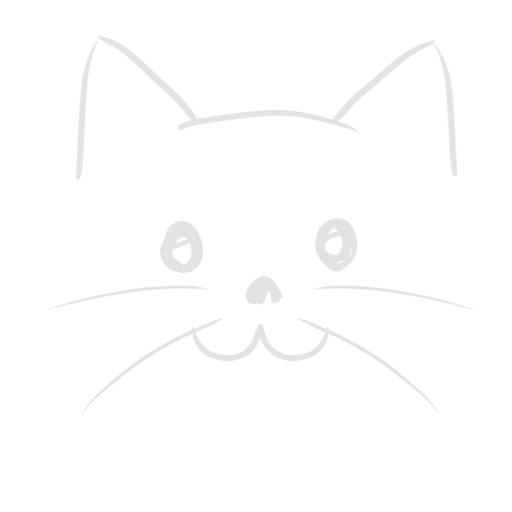
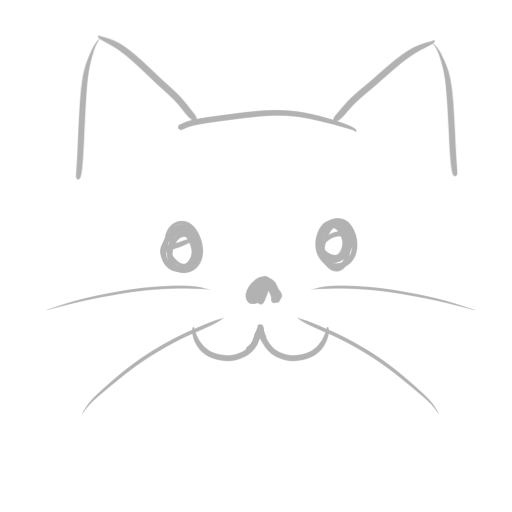
add dark-light theme switch

diff --git a/layouts/partials/custom-style.html b/layouts/partials/custom-style.html
@@ -1,4 +1,96 @@
 <style>
+{{/* Get theme names from config */}}
+{{ $lightThemeName := .Site.Params.lightThemeName | default "light-purple" }}
+{{ $darkThemeName := .Site.Params.darkThemeName | default "dark-purple" }}
+
+{{/* Find theme data */}}
+{{ $lightTheme := index (where .Site.Data.themes "name" $lightThemeName) 0 }}
+{{ $darkTheme := index (where .Site.Data.themes "name" $darkThemeName) 0 }}
+
+/* Theme Variables - Dynamically generated */
+html[class="light-theme"] {
+    --site-bg: url("{{ index $lightTheme "site-bg" }}");
+    --accent-color: {{ index $lightTheme "accent-color" }};
+    --select-color: {{ index $lightTheme "select-color" }};
+    --link-color: {{ index $lightTheme "link-color" }};
+    --bg-color: {{ index $lightTheme "bg-color" }};
+    --text-color: {{ index $lightTheme "text-color" }};
+    --bg-color2: {{ index $lightTheme "bg2-color" }};
+    --border-color: {{ index $lightTheme "border-color" }};
+    --special-text-color: {{ index $lightTheme "special-text-color" }};
+    --post-header-color: {{ index $lightTheme "post-header-color" }};
+    --post-shadow-color: {{ index $lightTheme "post-shadow-color" }};
+    --outline-color: {{ index $lightTheme "post-outline-color" }};
+    --outline-color2: {{ index $lightTheme "post-outline-color2" }};
+    --list-style-type: "{{ (index $lightTheme "list-style").type}}";
+    --list-style-image: url("{{ (index $lightTheme "list-style").image }}");
+
+    /* Custom selection styles for light theme */
+    ::selection {
+        background-color: var(--select-color);
+        color: var(--text-color); /* Use main text color for better contrast */
+    }
+}
+
+html[class="dark-theme"] {
+    --site-bg: url("{{ index $darkTheme "site-bg" }}");
+    --accent-color: {{ index $darkTheme "accent-color" }};
+    --select-color: {{ index $darkTheme "select-color" }};
+    --link-color: {{ index $darkTheme "link-color" }};
+    --bg-color: {{ index $darkTheme "bg-color" }};
+    --text-color: {{ index $darkTheme "text-color" }};
+    --bg-color2: {{ index $darkTheme "bg2-color" }};
+    --border-color: {{ index $darkTheme "border-color" }};
+    --special-text-color: {{ index $darkTheme "special-text-color" }};
+    --post-header-color: {{ index $darkTheme "post-header-color" }};
+    --post-shadow-color: {{ index $darkTheme "post-shadow-color" }};
+    --outline-color: {{ index $darkTheme "post-outline-color" }};
+    --outline-color2: {{ index $darkTheme "post-outline-color2" }};
+    --list-style-type: "{{ (index $darkTheme "list-style").type}}";
+    --list-style-image: url("{{ (index $darkTheme "list-style").image }}");
+
+    /* Custom selection styles for dark theme */
+    ::selection {
+        background-color: var(--select-color);
+        color: var(--text-color); /* Use main text color for better contrast */
+    }
+}
+
+/* Avatar visibility based on theme */
+html.light-theme #avatar .avatar-dark {
+    display: none;
+}
+html.light-theme #avatar .avatar-light {
+    display: block; /* Or inline-block if layout needs it */
+}
+html.dark-theme #avatar .avatar-light {
+    display: none;
+}
+html.dark-theme #avatar .avatar-dark {
+    display: block; /* Or inline-block if layout needs it */
+}
+
+/* Icon visibility based on theme */
+html.light-theme .theme-switch .icon-sun {
+    display: none;
+}
+html.light-theme .theme-switch .icon-moon {
+    display: inline-block; /* Use inline-block for SVG */
+}
+html.dark-theme .theme-switch .icon-moon {
+    display: none;
+}
+html.dark-theme .theme-switch .icon-sun {
+    display: inline-block; /* Use inline-block for SVG */
+}
+
+/* Style for the SVG icons inside the button */
+.theme-switch .icon {
+    width: 1.2em; /* Adjust size as needed */
+    height: 1.2em; /* Adjust size as needed */
+    vertical-align: middle; /* Align icon nicely with text if any */
+    fill: currentColor; /* Make SVG color inherit button text color */
+}
 
 .single-post {
     max-width: 1000px;
@@ -40,6 +132,51 @@ iframe {
     .single-post {
         font-size: 14px;
     }
+}
+
+/* Added styles for header and button */
+.site-header {
+    display: flex;
+    justify-content: space-between;
+    align-items: center;
+    /* Limit width and center the header */
+    max-width: 1024px;
+    margin: 0 auto;
+    /* Add some padding so content doesn't touch edges */
+    padding-left: 1rem;
+    padding-right: 1rem;
+}
+
+.site-header h1 {
+    flex-grow: 1;
+}
+
+/* Style for the circular button */
+.theme-switch {
+    /* Basic styling */
+    /* padding: 0.5rem; */ /* Remove padding, icons will center */
+    border: 1px solid var(--border-color, #ccc); /* Use theme variable or fallback */
+    background-color: var(--bg-color2, #f0f0f0); /* Use theme variable or fallback */
+    color: var(--text-color, #333); /* Use theme variable or fallback */
+    cursor: pointer;
+
+    /* Make it circular */
+    width: 40px; /* Example size */
+    height: 40px; /* Example size */
+    border-radius: 50%;
+
+    /* Center content (text or icon) */
+    display: flex;
+    justify-content: center;
+    align-items: center;
+    /* font-size: 0.8rem; */ /* Remove font-size, use icon's natural size */
+    line-height: 1; /* Ensure text doesn't wrap weirdly */
+}
+
+/* Optional: Hover/focus states */
+.theme-switch:hover {
+    background-color: var(--bg-color, #e0e0e0); /* Use theme variable or fallback */
+    border-color: var(--text-color, #aaa); /* Use theme variable or fallback */
 }
 
 </style>

diff --git a/layouts/_default/baseof.html b/layouts/_default/baseof.html
@@ -22,10 +22,81 @@
     <meta charset="utf-8">
 </head>
 <body>
-        <header><h1 id="{{ .Site.Title }}"><a href="{{ absLangURL "/" }}">{{ .Site.Title }}</a></h1></header>
+        <header class="site-header">
+            <h1 id="{{ .Site.Title }}"><a href="{{ absLangURL "/" }}">{{ .Site.Title }}</a></h1>
+            <button class="theme-switch" title="切換佈景主題">
+                <!-- Font Awesome Moon SVG -->
+                <svg xmlns="http://www.w3.org/2000/svg" viewBox="0 0 384 512" class="icon icon-moon" aria-hidden="true" focusable="false">
+                    <path d="M223.5 32C100 32 0 132.3 0 256S100 480 223.5 480c60.6 0 115.5-24.2 155.8-63.4c5-4.9 6.3-12.5 3.1-18.7s-10.1-9.7-17-8.5c-9.8 1.7-19.8 2.6-30.1 2.6c-96.9 0-175.5-78.8-175.5-176c0-65.8 36-123.1 89.3-153.3c6.1-3.5 9.2-10.5 7.7-17.3s-7.3-11.9-14.3-12.5c-6.3-.5-12.6-.8-19-.8z"/>
+                </svg>
+                <!-- Font Awesome Sun SVG -->
+                <svg xmlns="http://www.w3.org/2000/svg" viewBox="0 0 512 512" class="icon icon-sun" aria-hidden="true" focusable="false">
+                     <path d="M361.5 1.2c5 2.1 8.6 6.6 9.6 11.9L391 121l107.9 19.8c5.3 1 9.8 4.6 11.9 9.6s1.5 10.7-1.6 15.2L446.9 256l62.3 90.3c3.1 4.5 3.7 10.2 1.6 15.2s-6.6 8.6-11.9 9.6L391 391 371.1 498.9c-1 5.3-4.6 9.8-9.6 11.9s-10.7 1.5-15.2-1.6L256 446.9l-90.3 62.3c-4.5 3.1-10.2 3.7-15.2 1.6s-8.6-6.6-9.6-11.9L121 391 13.1 371.1c-5.3-1-9.8-4.6-11.9-9.6s-1.5-10.7 1.6-15.2L65.1 256 2.8 165.7c-3.1-4.5-3.7-10.2-1.6-15.2s6.6-8.6 11.9-9.6L121 121 140.9 13.1c1-5.3 4.6-9.8 9.6-11.9s10.7-1.5 15.2 1.6L256 65.1 346.3 2.8c4.5-3.1 10.2-3.7 15.2-1.6zM160 256a96 96 0 1 1 192 0 96 96 0 1 1 -192 0zm224 0a128 128 0 1 0 -256 0 128 128 0 1 0 256 0z"/>
+                </svg>
+            </button>
+        </header>
 <main>
     {{ block "main" . }}{{ end }}
     {{ if .Param "nextprev" }}{{ partial "nextprev.html" . }}{{ end }}
 </main>
+
+<script>
+const themeSwitch = document.querySelector('.theme-switch');
+const htmlElement = document.documentElement;
+const moonIcon = themeSwitch.querySelector('.icon-moon');
+const sunIcon = themeSwitch.querySelector('.icon-sun');
+
+const lightTheme = 'light-theme';
+const darkTheme = 'dark-theme';
+const preferredThemeKey = 'preferred-theme';
+
+function applyTheme(theme) {
+    if (theme === darkTheme) {
+        htmlElement.classList.remove(lightTheme);
+        htmlElement.classList.add(darkTheme);
+        moonIcon.style.display = 'none';
+        sunIcon.style.display = 'inline';
+        localStorage.setItem(preferredThemeKey, 'dark');
+    } else {
+        htmlElement.classList.remove(darkTheme);
+        htmlElement.classList.add(lightTheme);
+        sunIcon.style.display = 'none';
+        moonIcon.style.display = 'inline';
+        localStorage.setItem(preferredThemeKey, 'light');
+    }
+}
+
+function toggleTheme() {
+    if (htmlElement.classList.contains(darkTheme)) {
+        applyTheme(lightTheme);
+    } else {
+        applyTheme(darkTheme);
+    }
+}
+
+// Initial theme setup
+const savedTheme = localStorage.getItem(preferredThemeKey);
+const prefersDark = window.matchMedia && window.matchMedia('(prefers-color-scheme: dark)').matches;
+
+let initialTheme = darkTheme; // Default to dark
+if (savedTheme === 'light') {
+    initialTheme = lightTheme;
+} else if (savedTheme === 'dark') {
+    initialTheme = darkTheme;
+} else if (prefersDark) {
+    initialTheme = darkTheme;
+} else {
+     // Fallback if system preference is light or not supported, and no saved preference
+     // We check if the default hugo theme is light or dark here implicitly by setting the initial default
+     // Since your default in hugo.yaml is dark-purple, we default to darkTheme
+     // If your hugo.yaml default was light-purple, you'd set initialTheme = lightTheme here.
+}
+
+applyTheme(initialTheme);
+
+themeSwitch.addEventListener('click', toggleTheme);
+
+</script>
+
 </body>
 </html>

diff --git a/layouts/index.html b/layouts/index.html
@@ -14,7 +14,9 @@
     <aside id="sidebar">
         <div id="avatar">
             {{ with .Site.GetPage "section" "/sidebar/_index.md" }}
-            <img class="flower" src="{{ index .Params "icon-path" }}">
+                {{/* Render both images, CSS will control visibility */}}
+                <img class="flower avatar-light" src="{{ index .Params "light_icon_path" }}" alt="Avatar Light">
+                <img class="flower avatar-dark" src="{{ index .Params "dark_icon_path" }}" alt="Avatar Dark">
             {{ end }}
         </div>
         

diff --git a/content/en/sidebar/_index.md b/content/en/sidebar/_index.md
@@ -1,7 +1,8 @@
 ---
 headless: true
 icon-use-flower-shape: false
-icon-path: "/icon.png"
+dark_icon_path: "/icon.png"
+light_icon_path: "/icon2.png"
 links:
     - link: "https://www.youtube.com/@holla16"
       name: "youtube"

diff --git a/content/zh/sidebar/_index.md b/content/zh/sidebar/_index.md
@@ -2,6 +2,8 @@
 headless: true
 icon-use-flower-shape: false
 icon-path: "/icon.png"
+dark_icon_path: "/icon.png"
+light_icon_path: "/icon2.png"
 links:
     - link: "https://www.youtube.com/@holla16"
       name: "youtube"
